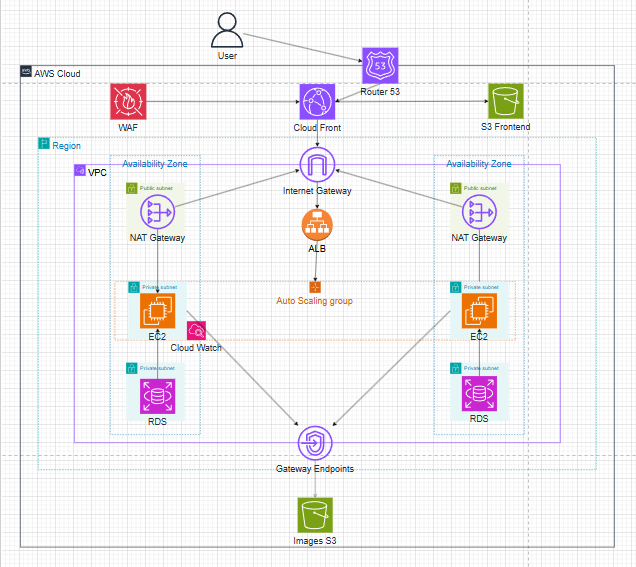
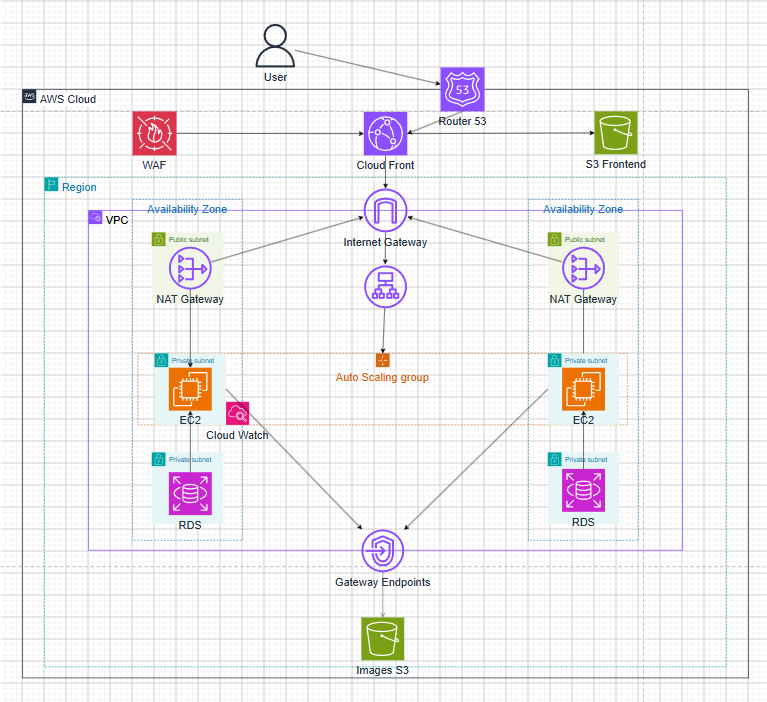
docs: update Event 2 content and refresh proposal/workshop architecture diagrams

Changed region(s): [[0.0, 0.03, 1.0, 0.9894], [0.4182, 0.6896, 0.4481, 0.7196], [0.3884, 0.6596, 0.4182, 0.6896]]

diff --git a/content/4-EventParticipated/4.2-Event2/_index.md b/content/4-EventParticipated/4.2-Event2/_index.md
@@ -5,151 +5,3 @@ weight: 1
 chapter: false
 pre: " <b> 4.2. </b> "
 ---
-
-# Summary Report: "FCAJ Community Day"
-
-### Event Objectives
-
-* Provide practical perspectives on the technology job market in the AI era.
-* Share techniques for working effectively with LLMs: context engineering and understanding model limitations.
-* Introduce modern AWS services: Amazon Quick Suite and Amazon CloudFront in system architecture.
-* Inspire attendees through hackathon experiences and enterprise-grade multi-agent system design.
-
-### Speakers
-
-* **Nguyen Gia Hung** – Shared perspectives on the job market and AI.
-* **Tinh Truong** (Platform Engineer) – "Context is Everything": context management when working with LLMs.
-* **Nguyen Hai Anh** – "Friendly AI Assistant with Amazon Quick": introduction to Amazon Quick Suite.
-* **Nguyen Tuan Thinh** – "CloudFront as Your Foundation": Amazon CloudFront as an architectural foundation.
-* **UTM Morpho Team (Uyen Thao)** – Shared hackathon competition experiences.
-* **Duc Dao** – "Non-determinism of 'Deterministic' LLM Settings": why LLMs are never fully deterministic.
-* **Vy Lam** – "Enterprise-grade Multi-agent System": building production-ready multi-agent systems.
-
-### Key Highlights
-
-#### Perspectives on the job market and AI – Nguyen Gia Hung
-
-The opening session provided an overview of the technology recruitment landscape as AI adoption accelerates.
-
-* AI does not fully replace developers, but it is reshaping hiring standards: employers now expect candidates to use AI to increase productivity.
-* Junior positions face stronger competition, making solid fundamentals and fast learning ability the most important advantages.
-* Soft skills, problem-solving mindset and adaptability remain qualities that AI cannot replace.
-* Advice for students: build a portfolio of real projects instead of only collecting certificates.
-
-#### Context is Everything – Tinh Truong (Platform Engineer)
-
-This session focused on Context Engineering — the decisive factor for output quality when working with LLMs.
-
-* LLM response quality depends directly on the quality of the provided context, not only on prompt wording.
-* The context window is a finite resource: information must be selected carefully instead of stuffing in everything.
-* Context management techniques: conversation history summarization, retrieval of relevant documents (RAG), and structured input formatting.
-* From a Platform Engineer's perspective, designing systems that feed the right context to AI matters more than fine-tuning individual prompts.
-
-#### Friendly AI Assistant with Amazon Quick – Nguyen Hai Anh
-
-This session introduced **Amazon Quick Suite** — AWS's new agentic AI application for the workplace.
-
-* Amazon Quick Suite helps employees find insights, conduct deep research, visualize data and automate everyday tasks.
-* Its ability to connect to multiple enterprise data sources lets the AI assistant answer from internal data instead of general knowledge only.
-* A live demo showed how to build a friendly AI assistant serving lookup and reporting needs for non-technical teams.
-* Key point: an effective AI assistant does not need to be complex — what matters is integrating it properly into existing workflows.
-
-#### CloudFront as Your Foundation – Nguyen Tuan Thinh
-
-This session analyzed the role of **Amazon CloudFront** as the foundational layer of modern web architecture.
-
-* CloudFront is not just a CDN for content acceleration but also a secure entry point for the entire system.
-* Combining CloudFront with S3 (via Origin Access Control) and ALB serves both static content and APIs through a single HTTPS domain.
-* Foundational benefits: DDoS protection at the edge, WAF integration, caching to reduce origin load, and optimized data transfer costs.
-* Architectural lesson: placing CloudFront as the foundation from day one makes the system more scalable and secure later — closely matching the architecture used in the PetShop workshop.
-
-#### Hackathon experience sharing – UTM Morpho Team (Uyen Thao)
-
-This session shared real experiences of a student team competing in hackathons.
-
-* The 24–48 hour workflow: pick an idea quickly, divide work by strengths, and prioritize a demo-able product.
-* Teamwork lessons under time pressure: concise communication, decisive choices and accepting feature scope trade-offs.
-* Pitching to judges: focus on the problem being solved rather than listing the technologies used.
-* Hackathons are the fastest way to learn: even losing brings valuable experience and connections.
-
-#### Non-determinism of "Deterministic" LLM Settings – Duc Dao
-
-This deep technical session explained why LLMs still produce different results even under "deterministic" configurations.
-
-* Setting `temperature = 0` does not guarantee identical outputs across calls.
-* Root causes come from the infrastructure layer: floating-point non-associativity, parallel computation ordering on GPUs, and batching mechanisms in model serving systems.
-* Practical implication: systems should never rely on LLMs returning identical results; validation and divergence handling must exist at the application layer.
-* Lesson: understanding a tool's limitations is just as important as knowing how to use it.
-
-#### Enterprise-grade Multi-agent System – Vy Lam
-
-The final session introduced how to build coordinated multi-agent AI systems that meet enterprise deployment standards.
-
-* Multi-agent architecture: an orchestrator agent delegates tasks to specialized agents instead of one agent doing everything.
-* Enterprise requirements: access control, full observability and logging, cost limits, and human-in-the-loop approval mechanisms.
-* Practical challenges: managing shared context between agents, handling cascading failures, and automated output quality evaluation.
-* Trend: multi-agent systems are the evolution from single chatbots to end-to-end automated business workflows.
-
-### Key Takeaways
-
-#### Career Orientation
-
-* The job market changes fast, but solid fundamentals and adaptability remain the core values.
-* Using AI effectively has become a default skill that employers expect.
-* A portfolio of real projects is more convincing than a list of certificates.
-
-#### AI Working Mindset
-
-* Context Engineering determines output quality more than individual prompt wording.
-* LLMs are non-deterministic even in "deterministic" settings — real systems must validate and handle output divergence.
-* Multi-agent systems require enterprise constraints: security, observability, cost control and human approval.
-
-#### AWS System Architecture
-
-* CloudFront should be treated as the foundation of web architecture: acceleration, security and a unified entry point at once.
-* Amazon Quick Suite opens a path to building internal AI assistants connected directly to enterprise data.
-
-#### Soft Skills
-
-* Teamwork under time pressure requires concise communication and fast decisions.
-* Pitching should focus on the value of the problem solved rather than technical details.
-
-### Applying to Work
-
-* Apply **Context Engineering** thinking when working with AI: prepare documents and context before asking, instead of only tweaking prompts.
-* Reinforce the **CloudFront as single entry point** architecture in the PetShop project and future projects.
-* Add **LLM output validation** steps in AI-integrated applications; never assume consistent results.
-* Explore and experiment with **Amazon Quick Suite** for automated lookup and reporting needs.
-* Join hackathons to practice teamwork, time management and product pitching skills.
-
-### Event Experience
-
-Attending **"FCAJ Community Day"** exposed me to a diverse range of topics — from career orientation and deep LLM internals to AWS system architecture.
-
-#### Learning from experienced speakers
-
-Seven presentations from speakers in different roles — Platform Engineer, AI engineers, solution architects and a student hackathon team — offered a multi-dimensional view of the technology industry.
-
-The combination of orientation topics and technical topics helped me both broaden my perspective and learn immediately applicable knowledge.
-
-#### Deeper understanding of LLM fundamentals
-
-The two sessions on Context Engineering and LLM non-determinism changed how I view AI: instead of treating AI as an always-correct black box, I learned to understand model limitations and design workflows accordingly.
-
-#### Connecting knowledge with practice
-
-The CloudFront session was especially valuable because it matched the architecture I deployed in the PetShop workshop — hearing an expert's analysis deepened my understanding of the architectural decisions I had already applied.
-
-#### Networking and discussions
-
-The event provided opportunities to talk directly with speakers and fellow attendees; the hackathon sharing in particular inspired me to confidently join upcoming technology competitions.
-
-#### Lessons learned
-
-* Context is the most important factor when working with LLMs — "Context is Everything".
-* Understanding technology limitations is just as important as knowing how to use it.
-* Good architecture starts from the right foundation — CloudFront is a prime example of this mindset.
-* The AI-era job market favors people with strong fundamentals and fast learning ability.
-* Hands-on experience (hackathons, real projects) is the most effective and convincing way to learn.
-
-> Overall, the event provided both deep technical knowledge and a clearer career direction in the AI era. The sessions on Context Engineering, LLM limitations and AWS architecture are directly applicable to my studies and real projects, while the job market and hackathon sharing gave me more confidence on my career path in information technology.

diff --git a/content/4-EventParticipated/4.2-Event2/_index.vi.md b/content/4-EventParticipated/4.2-Event2/_index.vi.md
@@ -5,151 +5,3 @@ weight: 1
 chapter: false
 pre: " <b> 4.2. </b> "
 ---
-
-# Bài thu hoạch: "FCAJ Community Day"
-
-### Mục đích của sự kiện
-
-* Cập nhật góc nhìn thực tế về thị trường việc làm ngành công nghệ trong thời đại AI.
-* Chia sẻ các kỹ thuật làm việc hiệu quả với LLM: quản lý ngữ cảnh (Context Engineering) và hiểu rõ giới hạn của mô hình.
-* Giới thiệu các dịch vụ AWS hiện đại: Amazon Quick Suite và Amazon CloudFront trong kiến trúc hệ thống.
-* Truyền cảm hứng qua kinh nghiệm thi đấu hackathon và xây dựng hệ thống multi-agent cấp doanh nghiệp.
-
-### Danh sách diễn giả
-
-* **Anh Nguyễn Gia Hưng** – Chia sẻ góc nhìn về thị trường việc làm và AI.
-* **Anh Tịnh Trương** (Platform Engineer) – Chủ đề "Context is Everything" về quản lý ngữ cảnh khi làm việc với LLM.
-* **Anh Nguyễn Hải Anh** – Chủ đề "Friendly AI Assistant with Amazon Quick" giới thiệu trợ lý AI Amazon Quick Suite.
-* **Anh Nguyễn Tuấn Thịnh** – Chủ đề "CloudFront as Your Foundation" về vai trò nền tảng của Amazon CloudFront.
-* **Nhóm UTM Morpho (chị Uyển Thảo)** – Chia sẻ kinh nghiệm tham gia hackathon.
-* **Anh Đức Đào** – Chủ đề "Non-determinism of 'Deterministic' LLM Settings" về tính bất định của LLM.
-* **Chị Vy Lâm** – Chủ đề "Enterprise-grade Multi-agent System" về hệ thống đa tác tử cấp doanh nghiệp.
-
-### Nội dung nổi bật
-
-#### Góc nhìn về thị trường việc làm và AI – Anh Nguyễn Gia Hưng
-
-Phần mở đầu mang đến bức tranh tổng quan về thị trường tuyển dụng ngành công nghệ khi AI phát triển mạnh mẽ.
-
-* AI không thay thế hoàn toàn lập trình viên nhưng đang thay đổi tiêu chuẩn tuyển dụng: doanh nghiệp kỳ vọng ứng viên biết sử dụng AI để tăng năng suất.
-* Các vị trí Junior chịu áp lực cạnh tranh lớn hơn, vì vậy kiến thức nền tảng vững chắc và khả năng học nhanh trở thành lợi thế quan trọng nhất.
-* Kỹ năng mềm, tư duy giải quyết vấn đề và khả năng thích nghi là những yếu tố AI chưa thể thay thế.
-* Lời khuyên cho sinh viên: xây dựng portfolio dự án thực tế thay vì chỉ tích lũy chứng chỉ.
-
-#### Context is Everything – Anh Tịnh Trương (Platform Engineer)
-
-Phần trình bày tập trung vào Context Engineering — yếu tố quyết định chất lượng đầu ra khi làm việc với LLM.
-
-* Chất lượng phản hồi của LLM phụ thuộc trực tiếp vào chất lượng ngữ cảnh được cung cấp, không chỉ vào cách viết Prompt.
-* Cửa sổ ngữ cảnh (context window) là tài nguyên hữu hạn: cần chọn lọc thông tin đưa vào thay vì nhồi nhét mọi thứ.
-* Các kỹ thuật quản lý ngữ cảnh: tóm tắt lịch sử hội thoại, truy xuất tài liệu liên quan (RAG), và cấu trúc hóa thông tin đầu vào.
-* Với vai trò Platform Engineer, việc thiết kế hệ thống cung cấp đúng ngữ cảnh cho AI quan trọng hơn việc tinh chỉnh từng câu Prompt.
-
-#### Friendly AI Assistant with Amazon Quick – Anh Nguyễn Hải Anh
-
-Phần chia sẻ giới thiệu **Amazon Quick Suite** — ứng dụng AI agentic mới của AWS dành cho môi trường làm việc.
-
-* Amazon Quick Suite giúp tìm kiếm thông tin, nghiên cứu chuyên sâu, trực quan hóa dữ liệu và tự động hóa tác vụ trong công việc hằng ngày.
-* Khả năng kết nối với nhiều nguồn dữ liệu của doanh nghiệp giúp trợ lý AI trả lời dựa trên dữ liệu nội bộ thay vì chỉ kiến thức tổng quát.
-* Demo trực tiếp cách xây dựng một trợ lý AI thân thiện phục vụ nhu cầu tra cứu và báo cáo của các team không chuyên về kỹ thuật.
-* Điểm nhấn: AI assistant hiệu quả không cần phức tạp — quan trọng là tích hợp đúng vào quy trình làm việc hiện có.
-
-#### CloudFront as Your Foundation – Anh Nguyễn Tuấn Thịnh
-
-Phần trình bày phân tích vai trò của **Amazon CloudFront** như lớp nền tảng của kiến trúc web hiện đại.
-
-* CloudFront không chỉ là CDN tăng tốc nội dung mà còn là cổng vào (entry point) bảo mật cho toàn hệ thống.
-* Kết hợp CloudFront với S3 (qua Origin Access Control) và ALB giúp phục vụ cả nội dung tĩnh lẫn API qua một domain HTTPS duy nhất.
-* Các lợi ích nền tảng: chống DDoS ở tầng edge, tích hợp WAF, cache giảm tải cho origin và tối ưu chi phí truyền dữ liệu.
-* Bài học kiến trúc: đặt CloudFront làm nền móng ngay từ đầu giúp hệ thống dễ mở rộng và bảo mật hơn về sau — rất gần với kiến trúc em áp dụng trong workshop PetShop.
-
-#### Chia sẻ kinh nghiệm hackathon – Nhóm UTM Morpho (chị Uyển Thảo)
-
-Phần chia sẻ mang đến trải nghiệm thực tế của nhóm sinh viên khi tham gia các cuộc thi hackathon.
-
-* Quy trình làm việc trong 24–48 giờ: chọn ý tưởng nhanh, phân công theo thế mạnh và ưu tiên sản phẩm demo được.
-* Bài học về teamwork dưới áp lực thời gian: giao tiếp ngắn gọn, quyết định dứt khoát và chấp nhận đánh đổi phạm vi tính năng.
-* Cách trình bày (pitching) trước ban giám khảo: tập trung vào vấn đề giải quyết được thay vì liệt kê công nghệ sử dụng.
-* Hackathon là cơ hội học nhanh nhất: thất bại trong cuộc thi cũng mang lại kinh nghiệm và kết nối giá trị.
-
-#### Non-determinism of "Deterministic" LLM Settings – Anh Đức Đào
-
-Phần trình bày kỹ thuật chuyên sâu lý giải vì sao LLM vẫn cho kết quả khác nhau ngay cả khi cấu hình "deterministic".
-
-* Đặt `temperature = 0` không đảm bảo đầu ra giống nhau tuyệt đối giữa các lần gọi.
-* Nguyên nhân đến từ tầng hạ tầng: phép toán dấu phẩy động không kết hợp (floating-point non-associativity), thứ tự tính toán song song trên GPU và cơ chế gom batch của hệ thống phục vụ mô hình.
-* Hệ quả thực tế: không nên thiết kế hệ thống phụ thuộc vào việc LLM trả về kết quả y hệt nhau; cần validation và xử lý sai khác ở tầng ứng dụng.
-* Bài học: hiểu giới hạn của công cụ quan trọng không kém việc biết sử dụng công cụ.
-
-#### Enterprise-grade Multi-agent System – Chị Vy Lâm
-
-Phần cuối giới thiệu cách xây dựng hệ thống nhiều AI agent phối hợp đạt chuẩn triển khai doanh nghiệp.
-
-* Kiến trúc multi-agent: agent điều phối (orchestrator) phân chia nhiệm vụ cho các agent chuyên biệt thay vì một agent làm mọi việc.
-* Các yêu cầu cấp doanh nghiệp: kiểm soát quyền truy cập, ghi log đầy đủ (observability), giới hạn chi phí và cơ chế con người phê duyệt (human-in-the-loop).
-* Thách thức thực tế: quản lý ngữ cảnh chia sẻ giữa các agent, xử lý lỗi dây chuyền và đánh giá chất lượng đầu ra tự động.
-* Xu hướng: multi-agent system là bước tiến từ chatbot đơn lẻ sang quy trình nghiệp vụ tự động hóa đầu-cuối.
-
-### Những gì học được
-
-#### Định hướng nghề nghiệp
-
-* Thị trường việc làm thay đổi nhanh nhưng kiến thức nền tảng và khả năng thích nghi vẫn là giá trị cốt lõi.
-* Biết sử dụng AI hiệu quả đã trở thành kỹ năng mặc định mà nhà tuyển dụng kỳ vọng.
-* Portfolio dự án thực tế có sức thuyết phục hơn danh sách chứng chỉ.
-
-#### Tư duy làm việc với AI
-
-* Quản lý ngữ cảnh (Context Engineering) quyết định chất lượng đầu ra nhiều hơn cách viết Prompt đơn lẻ.
-* LLM có tính bất định ngay cả ở cấu hình "deterministic" — hệ thống thực tế phải có cơ chế kiểm tra và xử lý sai khác.
-* Hệ thống multi-agent cần các ràng buộc doanh nghiệp: bảo mật, giám sát, kiểm soát chi phí và sự phê duyệt của con người.
-
-#### Kiến trúc hệ thống trên AWS
-
-* CloudFront nên được xem là lớp nền tảng của kiến trúc web: vừa tăng tốc, vừa bảo mật, vừa hợp nhất điểm truy cập.
-* Amazon Quick Suite mở ra hướng xây dựng trợ lý AI nội bộ kết nối trực tiếp với dữ liệu doanh nghiệp.
-
-#### Kỹ năng mềm
-
-* Làm việc nhóm dưới áp lực thời gian đòi hỏi giao tiếp ngắn gọn và quyết định nhanh.
-* Kỹ năng trình bày (pitching) tập trung vào giá trị giải quyết vấn đề thay vì chi tiết công nghệ.
-
-### Ứng dụng vào công việc
-
-* Áp dụng tư duy **Context Engineering** khi làm việc với AI: chuẩn bị tài liệu và ngữ cảnh trước khi đặt câu hỏi thay vì chỉ chỉnh sửa Prompt.
-* Củng cố kiến trúc **CloudFront làm cổng vào duy nhất** trong dự án PetShop và các dự án tương lai.
-* Thêm bước **validation đầu ra của LLM** trong các ứng dụng có tích hợp AI, không giả định kết quả luôn nhất quán.
-* Tìm hiểu và thử nghiệm **Amazon Quick Suite** cho các nhu cầu tra cứu và báo cáo tự động.
-* Tham gia hackathon để rèn kỹ năng làm việc nhóm, quản lý thời gian và trình bày sản phẩm.
-
-### Trải nghiệm trong sự kiện
-
-Tham gia sự kiện **"FCAJ Community Day"** giúp em tiếp cận nhiều chủ đề đa dạng — từ định hướng nghề nghiệp, kỹ thuật chuyên sâu về LLM cho đến kiến trúc hệ thống trên AWS.
-
-#### Học hỏi từ các diễn giả giàu kinh nghiệm
-
-Bảy phần trình bày đến từ các diễn giả với vai trò khác nhau — Platform Engineer, kỹ sư AI, kiến trúc sư giải pháp và cả nhóm sinh viên thi đấu hackathon — mang lại góc nhìn đa chiều về ngành công nghệ.
-
-Sự kết hợp giữa chủ đề định hướng và chủ đề kỹ thuật giúp em vừa mở rộng tầm nhìn vừa học được kiến thức áp dụng ngay được.
-
-#### Hiểu sâu hơn về bản chất của LLM
-
-Hai phần trình bày về Context Engineering và tính bất định của LLM giúp em thay đổi cách nhìn về AI: thay vì coi AI là hộp đen luôn đúng, em học được cách hiểu giới hạn của mô hình và thiết kế quy trình làm việc phù hợp.
-
-#### Kết nối kiến thức với thực hành
-
-Phần trình bày về CloudFront đặc biệt giá trị vì trùng khớp với kiến trúc em đang triển khai trong workshop PetShop — nghe phân tích từ góc nhìn chuyên gia giúp em hiểu rõ hơn các quyết định kiến trúc mình đã áp dụng.
-
-#### Giao lưu và trao đổi
-
-Sự kiện tạo cơ hội trao đổi trực tiếp với các diễn giả và các bạn tham dự, đặc biệt là phần chia sẻ hackathon truyền cảm hứng để em mạnh dạn tham gia các cuộc thi công nghệ sắp tới.
-
-#### Bài học rút ra
-
-* Ngữ cảnh là yếu tố quan trọng nhất khi làm việc với LLM — "Context is Everything".
-* Hiểu giới hạn của công nghệ quan trọng không kém việc biết sử dụng công nghệ.
-* Kiến trúc tốt bắt đầu từ nền móng đúng — CloudFront là ví dụ điển hình cho tư duy này.
-* Thị trường việc làm thời AI ưu tiên người có nền tảng vững và khả năng học nhanh.
-* Trải nghiệm thực chiến (hackathon, dự án thực tế) là cách học hiệu quả và thuyết phục nhất.
-
-> Nhìn chung, sự kiện mang lại cho em cả kiến thức kỹ thuật chuyên sâu lẫn định hướng nghề nghiệp rõ ràng hơn trong thời đại AI. Những chia sẻ về Context Engineering, giới hạn của LLM và kiến trúc AWS đều có thể áp dụng trực tiếp vào quá trình học tập và các dự án thực tế của em, đồng thời phần chia sẻ về thị trường việc làm và hackathon giúp em tự tin hơn trên con đường phát triển sự nghiệp trong lĩnh vực công nghệ thông tin.

diff --git a/content/4-EventParticipated/_index.md b/content/4-EventParticipated/_index.md
@@ -28,7 +28,7 @@ More importantly, these events helped me realize that technical skills alone are
 
  **Event Name:** FCAJ Community Day
 
- **Date & Time:** 09:00, May 23, 2026
+ **Date & Time:** 
 
  **Location:** 26th Floor, Bitexco Tower, 02 Hai Trieu Street, Saigon Ward, Ho Chi Minh City
 

diff --git a/content/4-EventParticipated/_index.vi.md b/content/4-EventParticipated/_index.vi.md
@@ -28,7 +28,7 @@ Quan trọng hơn, những sự kiện này giúp em nhận ra rằng chỉ sở
 
  **Tên sự kiện:** FCAJ Community Day
 
- **Thời gian:** Ngày 23/05/2026
+ **Thời gian:** 
 
  **Địa điểm:** Tầng 26, tòa nhà Bitexco, số 02 đường Hải Triều, phường Sài Gòn, thành phố Hồ Chí Minh
 